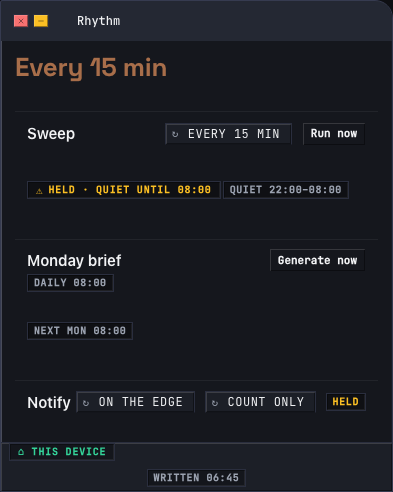
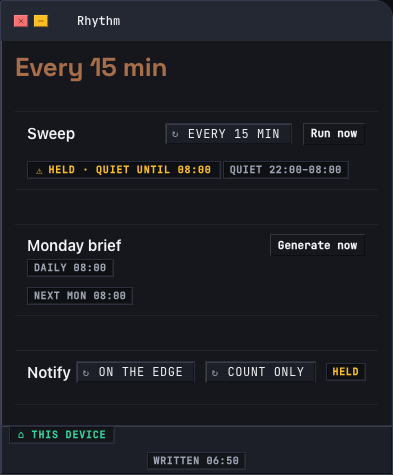
fix(face): HS-171-02 — Rhythm's facts sit under their names; hairlines between sections
Claude-Session: https://claude.ai/code/session_016siGSBgZph9EhEdGMoyWcu
PMO-Story: HS-171-02
PMO-Contract-Digest: sha256:15bd7b0dade93cd3e0bf019caf79f600674f98fd27c8513701234450ee37f4b7

diff --git a/web/src/pages/cores/CadenceCore.tsx b/web/src/pages/cores/CadenceCore.tsx
@@ -266,6 +266,7 @@ export function CadenceCore({ hero }: CoreProps) {
       </span>
 
       {/* ── SWEEP row ──────────────────────────────────────────── */}
+      <div className="rhythm-section">
       <SurfaceLedger count="" cols="hub">
         <SurfaceLedgerRow
           primary="Sweep"
@@ -292,8 +293,6 @@ export function CadenceCore({ hero }: CoreProps) {
           }
         />
       </SurfaceLedger>
-
-      {/* Sweep fact tokens */}
       <div className="rhythm-facts" data-testid="rhythm-sweep-facts">
         {sweeping ? (
           <StateChip state="active" label="RUNNING" />
@@ -336,8 +335,10 @@ export function CadenceCore({ hero }: CoreProps) {
           </>
         )}
       </div>
+      </div>{/* /rhythm-section sweep */}
 
       {/* ── MONDAY BRIEF row ───────────────────────────────────── */}
+      <div className="rhythm-section">
       <SurfaceLedger count="" cols="hub">
         <SurfaceLedgerRow
           primary="Monday brief"
@@ -386,8 +387,10 @@ export function CadenceCore({ hero }: CoreProps) {
           </>
         )}
       </div>
+      </div>{/* /rhythm-section brief */}
 
       {/* ── NOTIFY row ─────────────────────────────────────────── */}
+      <div className="rhythm-section">
       <SurfaceLedger count="" cols="hub">
         <SurfaceLedgerRow
           primary="Notify"
@@ -416,7 +419,6 @@ export function CadenceCore({ hero }: CoreProps) {
           }
         />
       </SurfaceLedger>
-
       {/* Project mute toggles */}
       {projects.length > 0 ? (
         <div className="rhythm-mutes" data-testid="rhythm-mute-toggles">
@@ -439,6 +441,7 @@ export function CadenceCore({ hero }: CoreProps) {
           })}
         </div>
       ) : null}
+      </div>{/* /rhythm-section notify */}
 
       {/* ── NOW N: existing cadence loops (kept from the old face) ── */}
       {action.message ? <SurfaceState error={action.message} /> : null}

diff --git a/web/src/pages/cores/rhythm.css b/web/src/pages/cores/rhythm.css
@@ -8,13 +8,20 @@
   color: var(--text-muted);
 }
 
-/* Fact token rows below each ledger section */
+/* Each row group (ledger + facts) separated by a hairline */
+.rhythm-section {
+  border-bottom: 1px solid var(--desk-window-etch-color, rgba(255, 255, 255, 0.06));
+  padding-bottom: 6px;
+  margin-bottom: 6px;
+}
+
+/* Fact token rows tight under the name line */
 .rhythm-facts {
   display: flex;
   flex-wrap: wrap;
   align-items: center;
   gap: 4px 2px;
-  padding: 4px 12px 12px;
+  padding: 2px 12px 4px;
   font: var(--desk-type-secondary);
   letter-spacing: 0.06em;
 }
@@ -24,5 +31,5 @@
   display: flex;
   flex-wrap: wrap;
   gap: 6px;
-  padding: 4px 12px 12px;
+  padding: 2px 12px 4px;
 }
